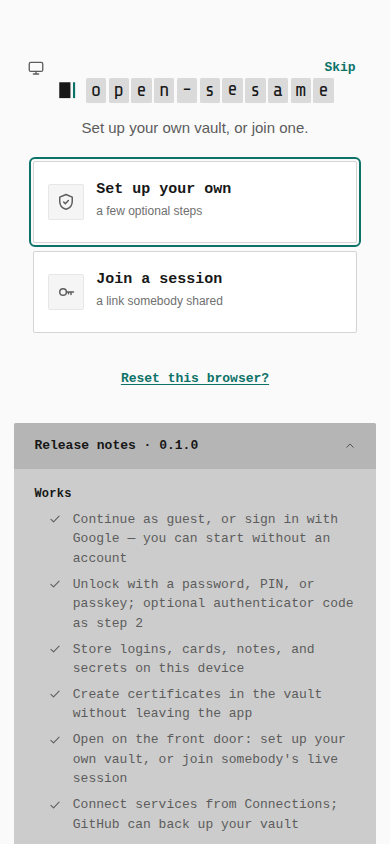
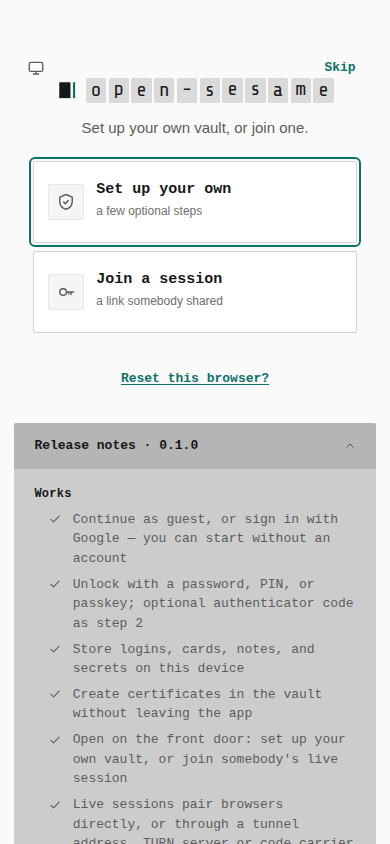
Release notes: live sessions work, and no longer "cannot pair yet"
The notes still listed live sessions as in progress with "two browsers with
no route between them cannot pair yet". An owner can now name a tunnel
address, a TURN server or a code carrier, so the line moves to Works. The
visual contract's three shots that show the notes (front door, both widths;
vault unlock, desktop) are re-seeded after reading each: only the notes list
changed, the seal form did not move.

Claude-Session: https://claude.ai/code/session_018MFguQv6CojJN7GqiCUSRA

diff --git a/apps/pages/src/screens/unlock/ReleaseNotes.tsx b/apps/pages/src/screens/unlock/ReleaseNotes.tsx
@@ -33,12 +33,12 @@ const RELEASES: readonly ReleaseNote[] = [
       "Store logins, cards, notes, and secrets on this device",
       "Create certificates in the vault without leaving the app",
       "Open on the front door: set up your own vault, or join somebody's live session",
+      "Live sessions pair browsers directly, or through a tunnel address, TURN server or code carrier the owner names",
       "Connect services from Connections; GitHub can back up your vault",
       "Generate passwords and authenticator codes inside the app",
     ],
     inProgress: [
       "More connectors from the catalog will finish linking the way GitHub does today",
-      "Live sessions connect browsers directly; two browsers with no route between them cannot pair yet",
       "Sharing access and approvals with people and agents is still being finished",
       "Clearing leftover setup screens and wording from older builds",
     ],

diff --git a/tests/visual-contract/README.md b/tests/visual-contract/README.md
@@ -196,7 +196,9 @@ no sign-in panel; `vault-unlock-desktop.png` only because the release notes
 beside the seal form changed two lines of copy. The seal form itself did not
 move. The other three still match. Re-seeded the same day for one more
 release-notes line (live sessions pair browsers directly, with no server);
-nothing else moved.
+nothing else moved. Re-seeded again the same day: the release notes now list
+live sessions under Works (directly, or through a tunnel address, TURN server
+or code carrier the owner names) rather than under In progress.
 
 ## What the orchestrator should do next
 
